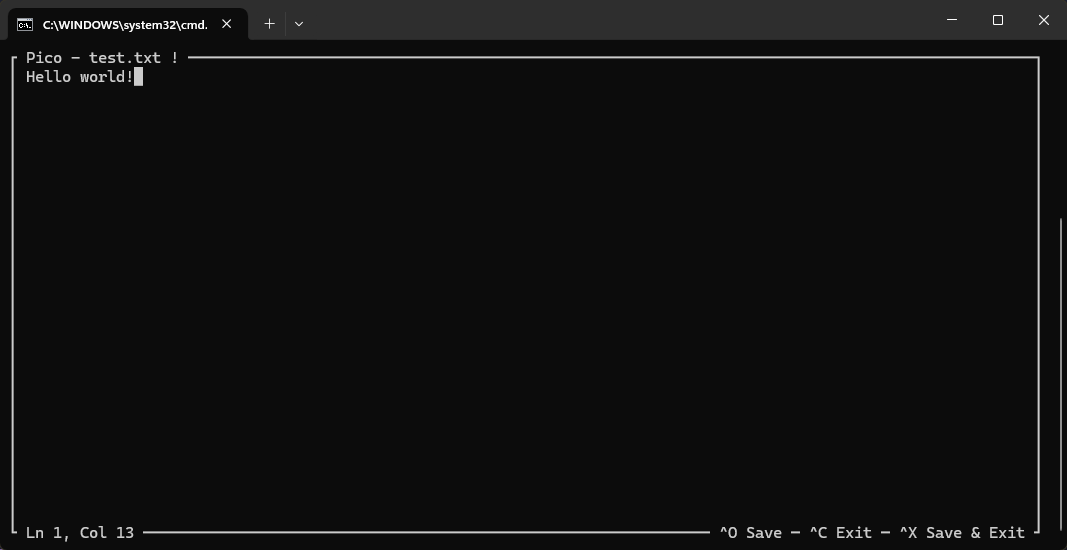
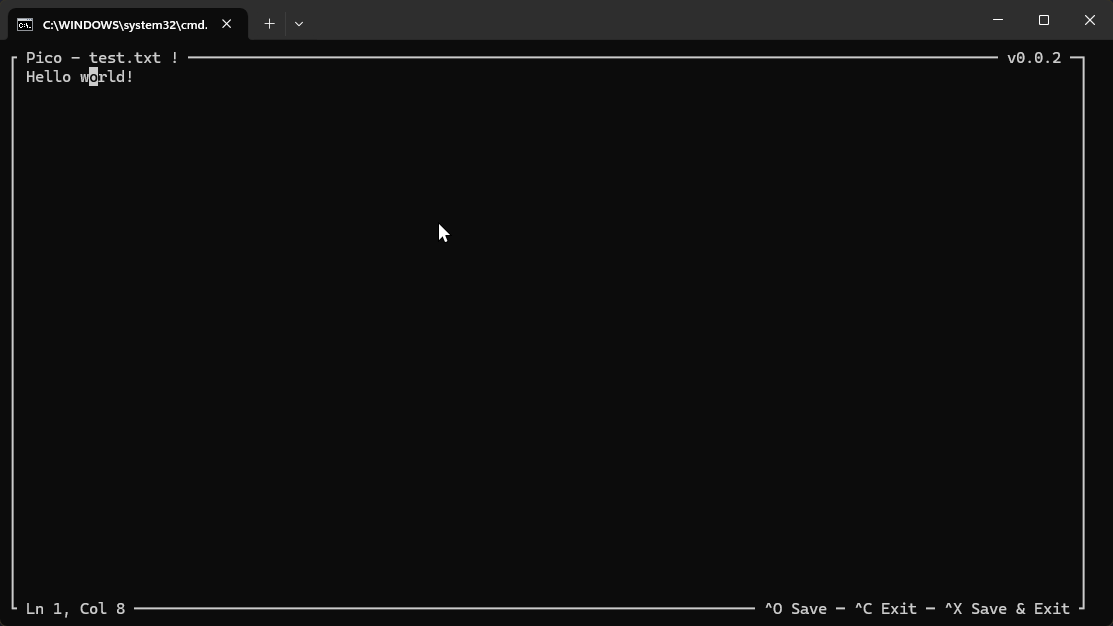
update readme & screenshots

Changed region(s): [[0.0, 0.0, 1.0, 0.9891], [0.9897, 0.4018, 1.0, 0.9582], [0.3711, 0.3709, 0.4021, 0.4018]]

diff --git a/README.md b/README.md
@@ -3,6 +3,3 @@
 Pico is a super minimal command-line text editor inspired by nano, written in golang.
 
 ![pico](.github/pico.png)
-
-### Later TODOs:
-- Horizontal scrolling
